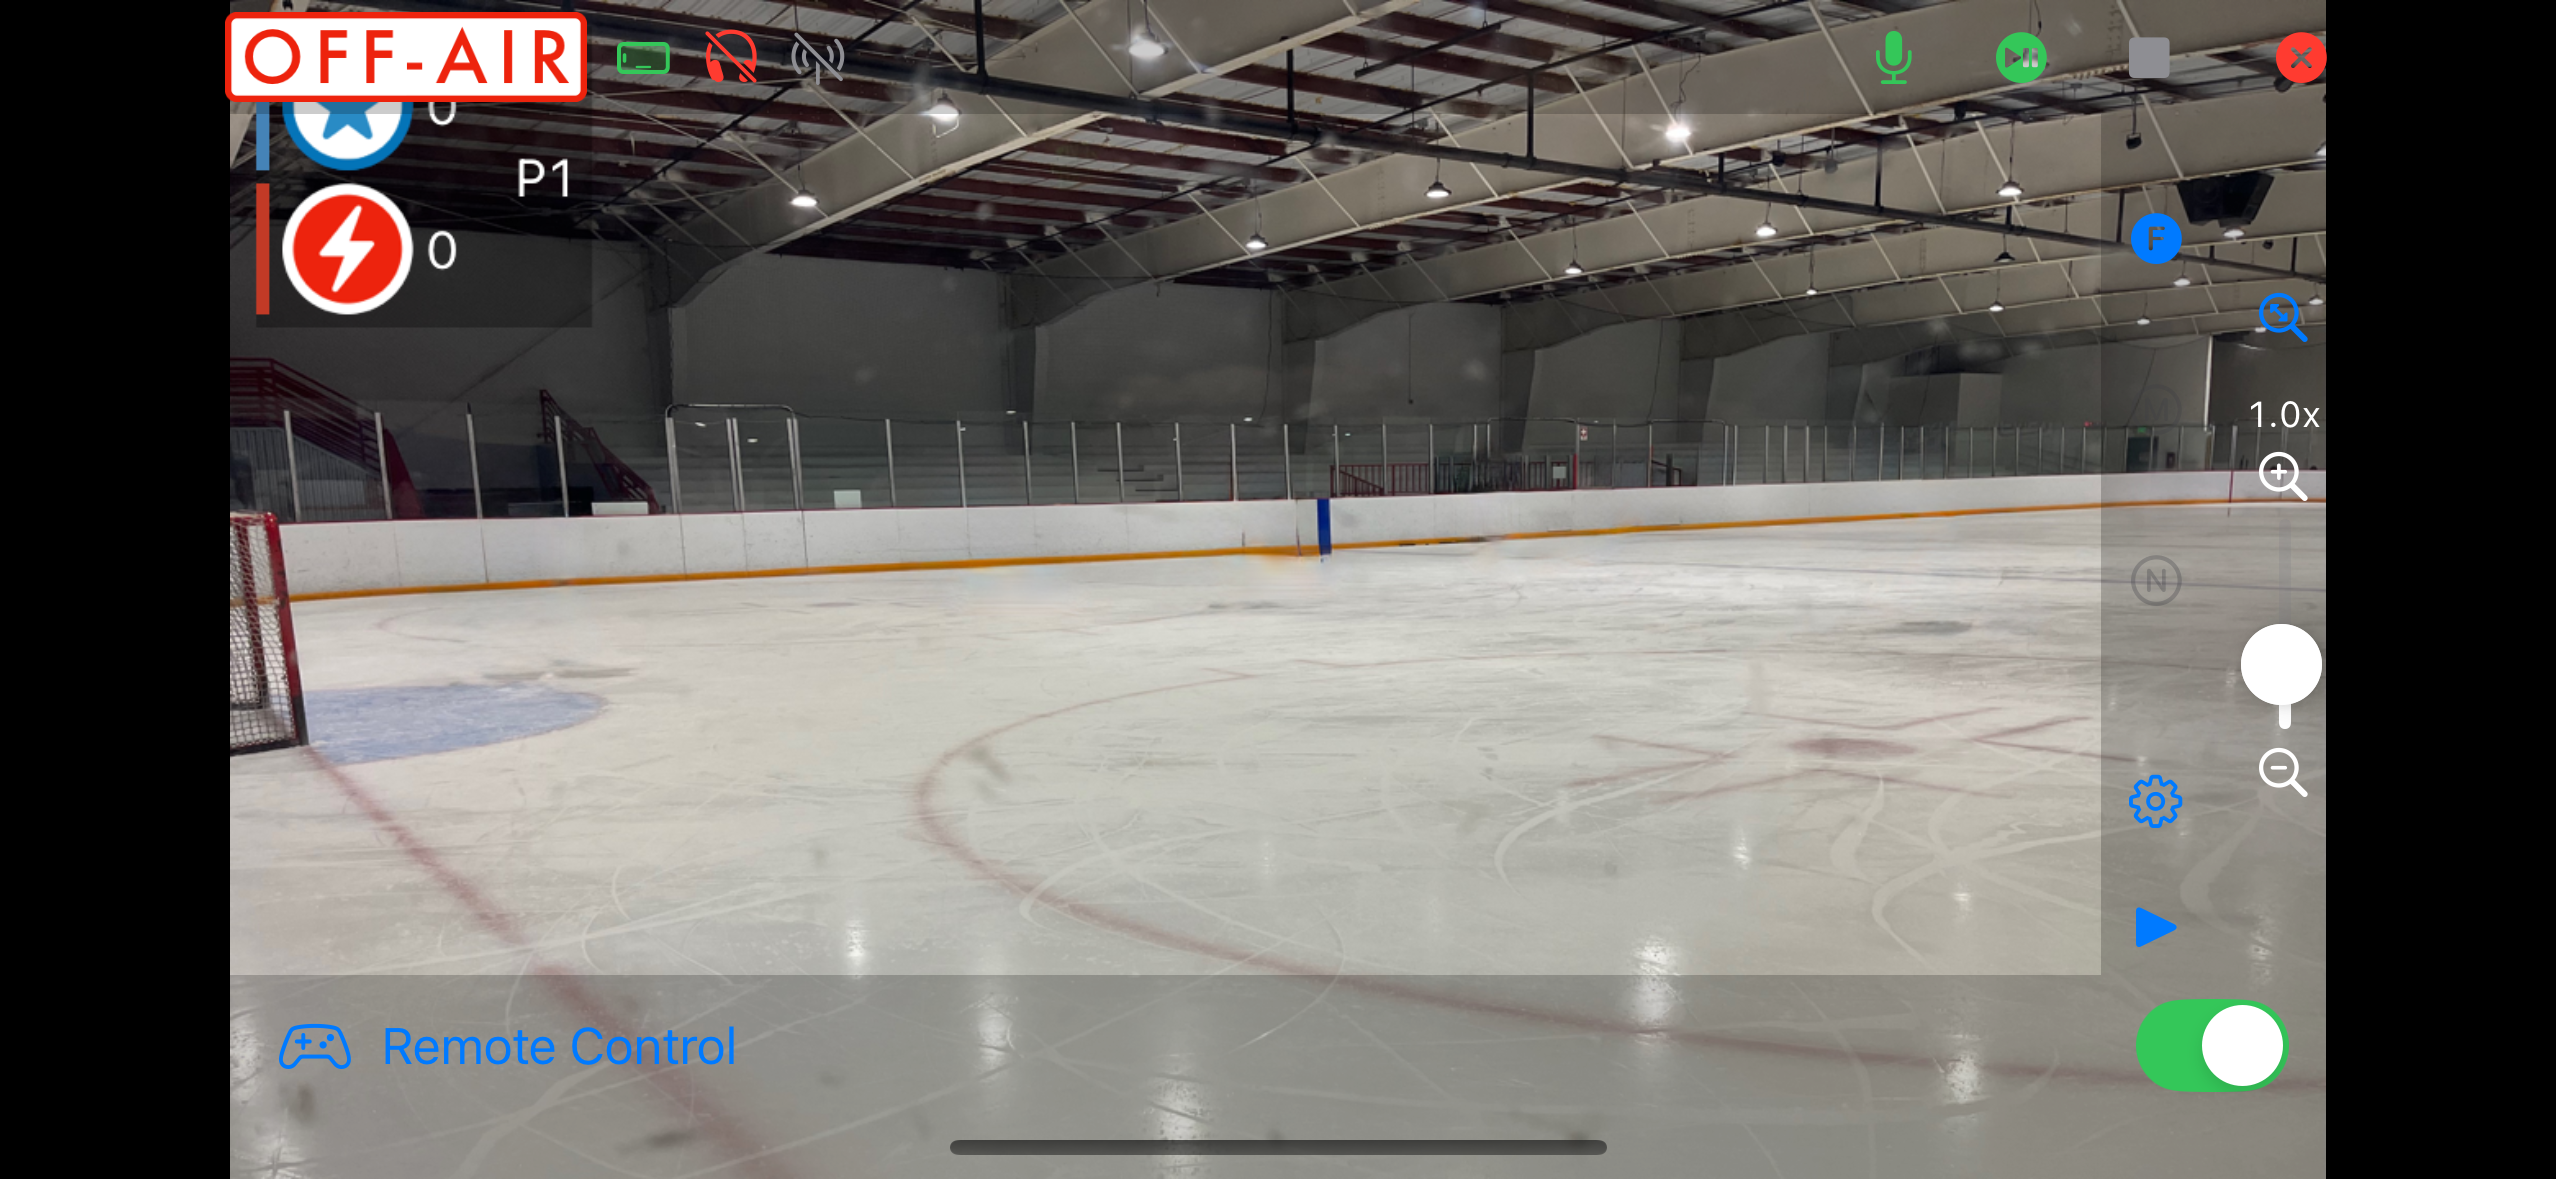
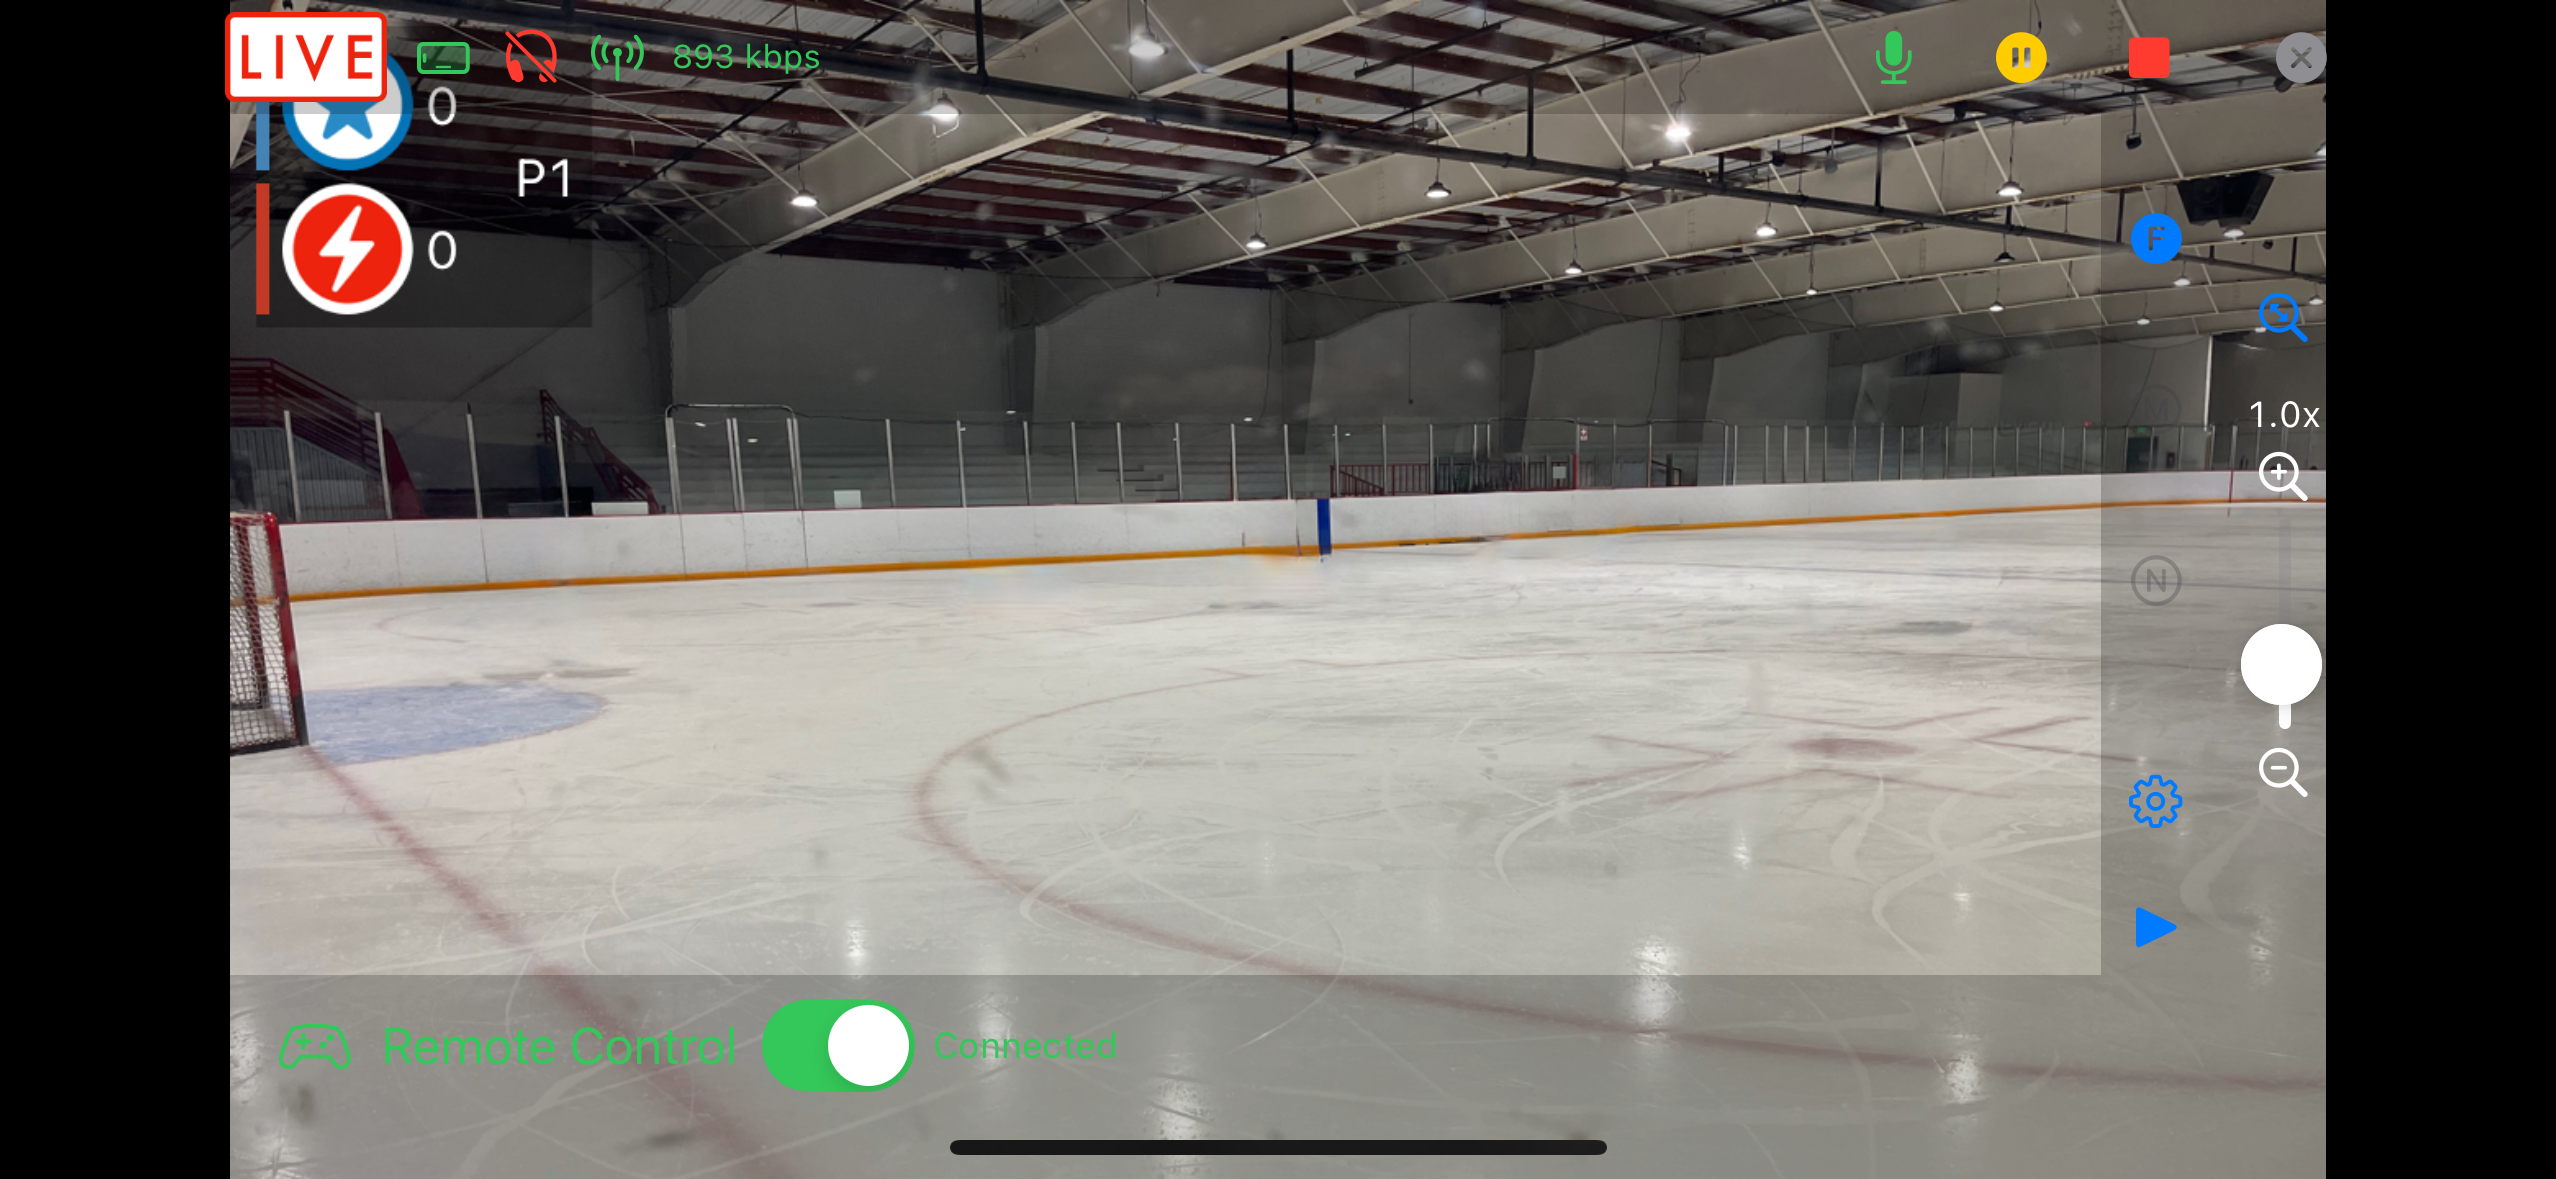
Update docs for 1.2.3

diff --git a/myteamlive/remote-control.md b/myteamlive/remote-control.md
@@ -8,30 +8,43 @@ section_url: /myteamlive/index
 
 # More Tab / Remote Control
 
-Remote Control lets a second device manage the scoreboard, events, and messages while the camera device streams.
+Remote Control lets a second phone manage the scoreboard, events, and messages
+while the camera phone streams the broadcast.
 
-## Prepare the Camera Device
+## Prepare the Camera
+
 1. In Go Live, advance to the confirmation step (step 4 of 4).
-2. Give the device a useful name (for example, "Jane's Phone").
+2. Give the camera a recognizable name (for example, "Jane's Phone").
 3. Toggle **Remote Control** on.
-4. Share the four-digit PIN with the helper device.
+4. Share the four-digit PIN with the remote control.
+5. The camera will now accept any valid remote control connection, and you can
+   start the broadcast by tapping **Continue**.
 
-## Connect the Remote Device
-1. On the helper device, open the More tab and choose Remote Control.
-2. Set a recognizable device name.
-3. Tap **Browse**, wait for the camera device to appear, then select it.
-4. Enter the PIN shown on the camera device and tap **Connect**.
+## Connect the Remote Control
+
+1. Open the More tab and choose Remote Control.
+2. Give the remote control a recognizable name.
+3. Tap **Browse**, wait for the camera name to appear, then select it.
+4. Enter the PIN for the camera and tap **Connect**.
 5. The status changes to "Waiting for camera to start" once paired.
-
-## Start the Broadcast
-1. On the camera device, tap Continue.
-2. When ready, tap **Go Live** to open the Camera View and Remote Controller view simultaneously.
+6. Once the camera operator presses continue and starts the Camera View, the
+   Remote Control UI will appear.
+7. If the camera is already in the Camera View, the Remote Control UI will
+   appear after the two phones synchronize their data.
 
 ## Using Remote Control
-- The Remote Control UI replaces the Scoreboard, Events, and Messages panels on the camera device.
-- Use the toggle on the camera device to enable or disable Remote Control if you need local access to the panels.
+
+- Use the toggle on the camera to enable or disable Remote Control if you need
+  local access to the panels.
+- The PIN for the camera is shown on the remote control toggle.
+- The Remote Control UI replaces the Scoreboard, Events, and Messages panels on
+  the camera but does not control any of the camera or zoom controls.
 
 ## Disconnecting and Reconnecting
-- Tap **Disconnect** on the remote device to end the session.
-- The camera automatically disconnects the remote when the broadcast finishes.
-- If the link drops, the Camera View shows "Disconnected" next to the Remote Control switch and the remote returns to the connection screen. Re-enter the remembered PIN and tap **Connect** while the Camera View remains open.
+
+- Tap **Disconnect** on the remote control to end the session.
+- The camera automatically disconnects the remote control when the broadcast
+  finishes.
+- If the link drops, the Camera View shows "Disconnected" next to the Remote
+  Control toggle and the remote control returns to the connection screen.
+  Re-enter the displayed PIN and tap **Connect**.

diff --git a/myteamlive/control-bar.md b/myteamlive/control-bar.md
@@ -19,6 +19,7 @@ The control bar appears at the top of the Camera View whenever you start streami
 - Device orientation icon (portrait or landscape).
 - Headphone connection indicator.
 - Network status (ready, connecting, good, unstable, etc.).
+- Current upload speed in kbps.
 
 ## Controls (Right Side)
 - Microphone mute toggle.
